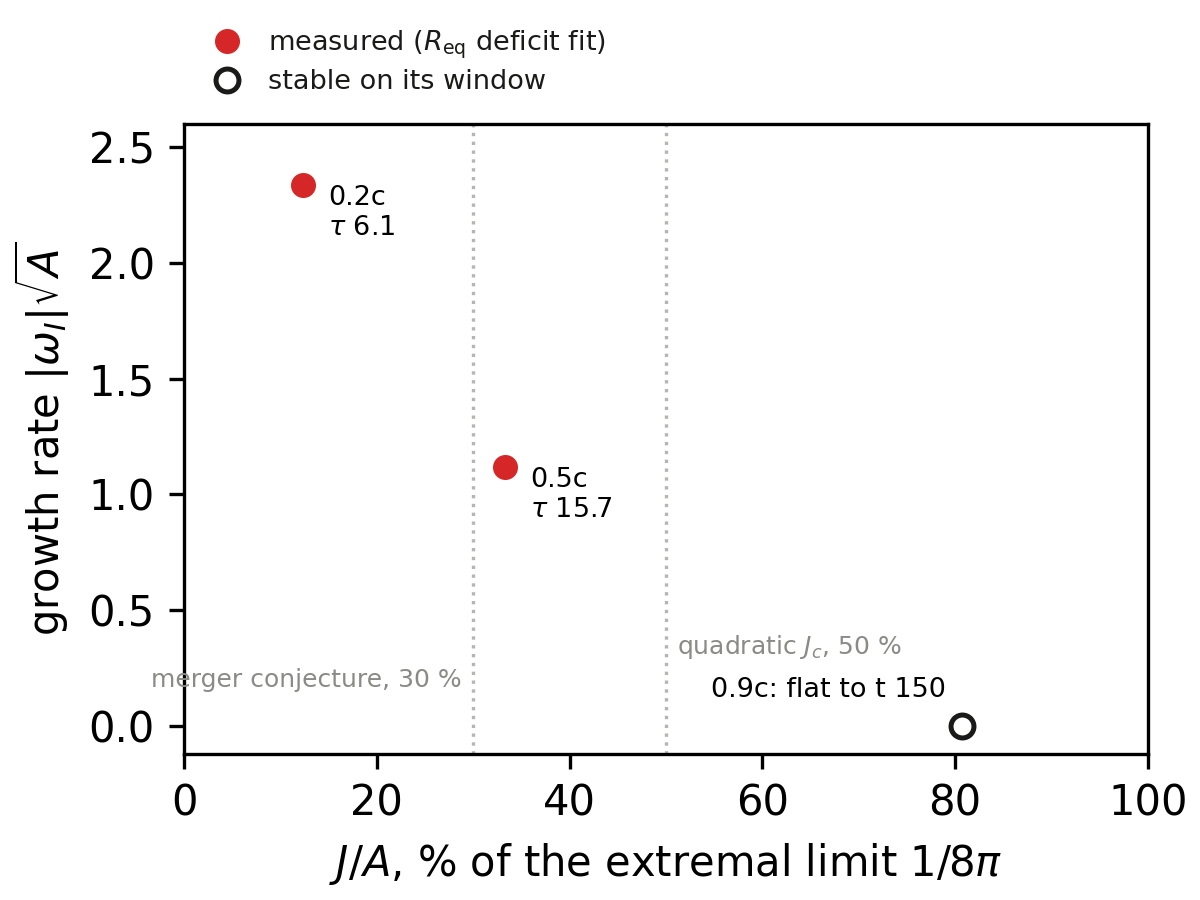
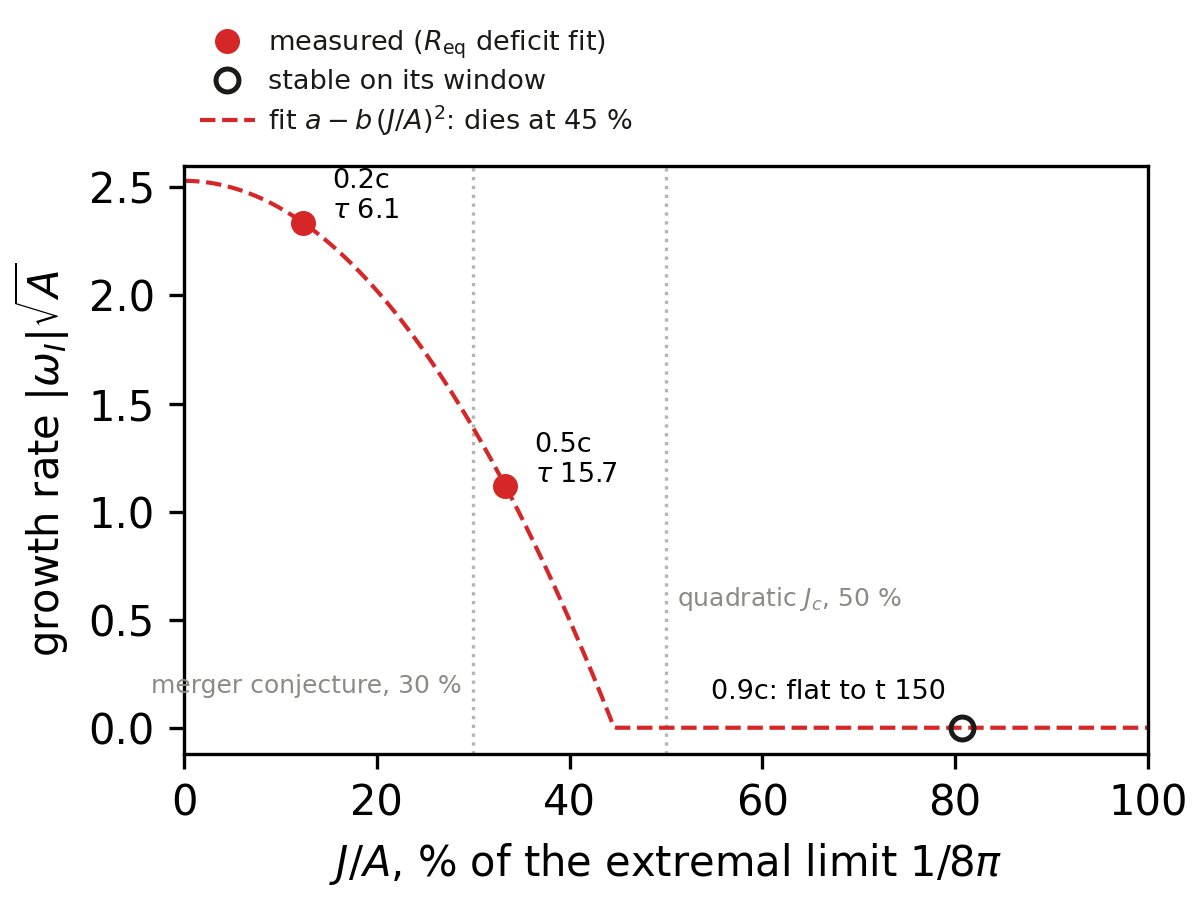
Spinning: instability curve gains the quadratic fit, dies at 45 %
Azad's form a - b (J/A)^2 through the measured rungs, clipped at zero:
with the 0.2c and 0.5c it dies at 44.6 % of the extremal limit, right
between the queued 0.6c (40 %) and 0.7c (51 %), which test it. Rung
tags moved clear of the curve; the 50 % rule's tag raised.

diff --git a/grteclyn-wrapper/src/grteclyn_wrapper/visualisation/spinning_wormhole/plot_instability_curve.py b/grteclyn-wrapper/src/grteclyn_wrapper/visualisation/spinning_wormhole/plot_instability_curve.py
@@ -126,13 +126,27 @@ def rate(tau: float, r_a: float) -> float:
 def draw(points, pal) -> None:
     fig, ax = plt.subplots(figsize=(4.0, 3.0), layout="constrained")
     for x, tag, y, ha, dx in ((AZAD_CROSSING, "merger conjecture, 30 %", 0.25, "right", -1.2),
-                              (AZAD_QUADRATIC, "quadratic $J_c$, 50 %", 0.40, "left", 1.2)):
+                              (AZAD_QUADRATIC, "quadratic $J_c$, 50 %", 0.66, "left", 1.2)):
         ax.axvline(x, color="#b5b5b2", lw=0.8, ls=":")
         ax.text(x + dx, y, tag, fontsize=6.0, color="#8a8a86", va="top", ha=ha)
     az_x = [p["frac"] for p in points if p["label"] in AZAD_TAU and p["r_a"]]
     az_y = [rate(AZAD_TAU[p["label"]], p["r_a"]) for p in points
             if p["label"] in AZAD_TAU and p["r_a"]]
     ax.plot(az_x, az_y, "D", ms=4.5, mfc="none", mec=pal["azad"], mew=1.1, zorder=3)
+    # Azad's form through the measured rungs: rate = a - b (J/A)^2, zero at
+    # x0 = sqrt(a/b) -- the nonperturbative threshold this fit predicts.
+    mx = np.array([p["frac"] for p in points if p["tau"] is not None])
+    my = np.array([rate(p["tau"], p["r_a"]) for p in points if p["tau"] is not None])
+    x0 = None
+    if mx.size >= 2:
+        b, a = np.linalg.lstsq(np.stack([-mx ** 2, np.ones_like(mx)], 1), my, rcond=None)[0]
+        if b > 0:
+            x0 = float(np.sqrt(a / b))
+        xs = np.linspace(0.0, 100.0, 400)
+        fit_line, = ax.plot(xs, np.clip(a - b * xs ** 2, 0.0, None), ls="--",
+                            lw=1.0, color=pal["measured"], zorder=2)
+        print(f"fit a - b (J/A)^2: a {a:.3f}, b {b:.5f}" +
+              (f", zero at {x0:.1f} % of extremal" if x0 else ""))
     for p in points:
         if p["r_a"] is None:
             continue
@@ -141,7 +155,8 @@ def draw(points, pal) -> None:
                     color=pal["measured"], zorder=4)
             ax.annotate(f"{p['label']}\n$\\tau$ {p['tau']:.1f}",
                         (p["frac"], rate(p["tau"], p["r_a"])),
-                        textcoords="offset points", xytext=(6, -12), fontsize=6.5)
+                        textcoords="offset points", xytext=(7, 1), fontsize=6.5,
+                        ha="left")
         else:
             ax.plot(p["frac"], 0.0, "o", ms=5.5, mfc="none", mec=pal["stable"],
                     mew=1.2, zorder=4)
@@ -158,6 +173,9 @@ def draw(points, pal) -> None:
         (mlines.Line2D([], [], marker="o", ls="none", ms=5.5, mfc="none",
                        mec=pal["stable"], mew=1.2), "stable on its window"),
     ]
+    if mx.size >= 2:
+        tag = f"fit $a-b\\,(J/A)^2$" + (f": dies at {x0:.0f} %" if x0 else "")
+        entries.append((fit_line, tag))
     if az_x:
         entries.append((mlines.Line2D([], [], marker="D", ls="none", ms=4.5, mfc="none",
                                       mec=pal["azad"], mew=1.1), "Azad et al., 2nd order"))
